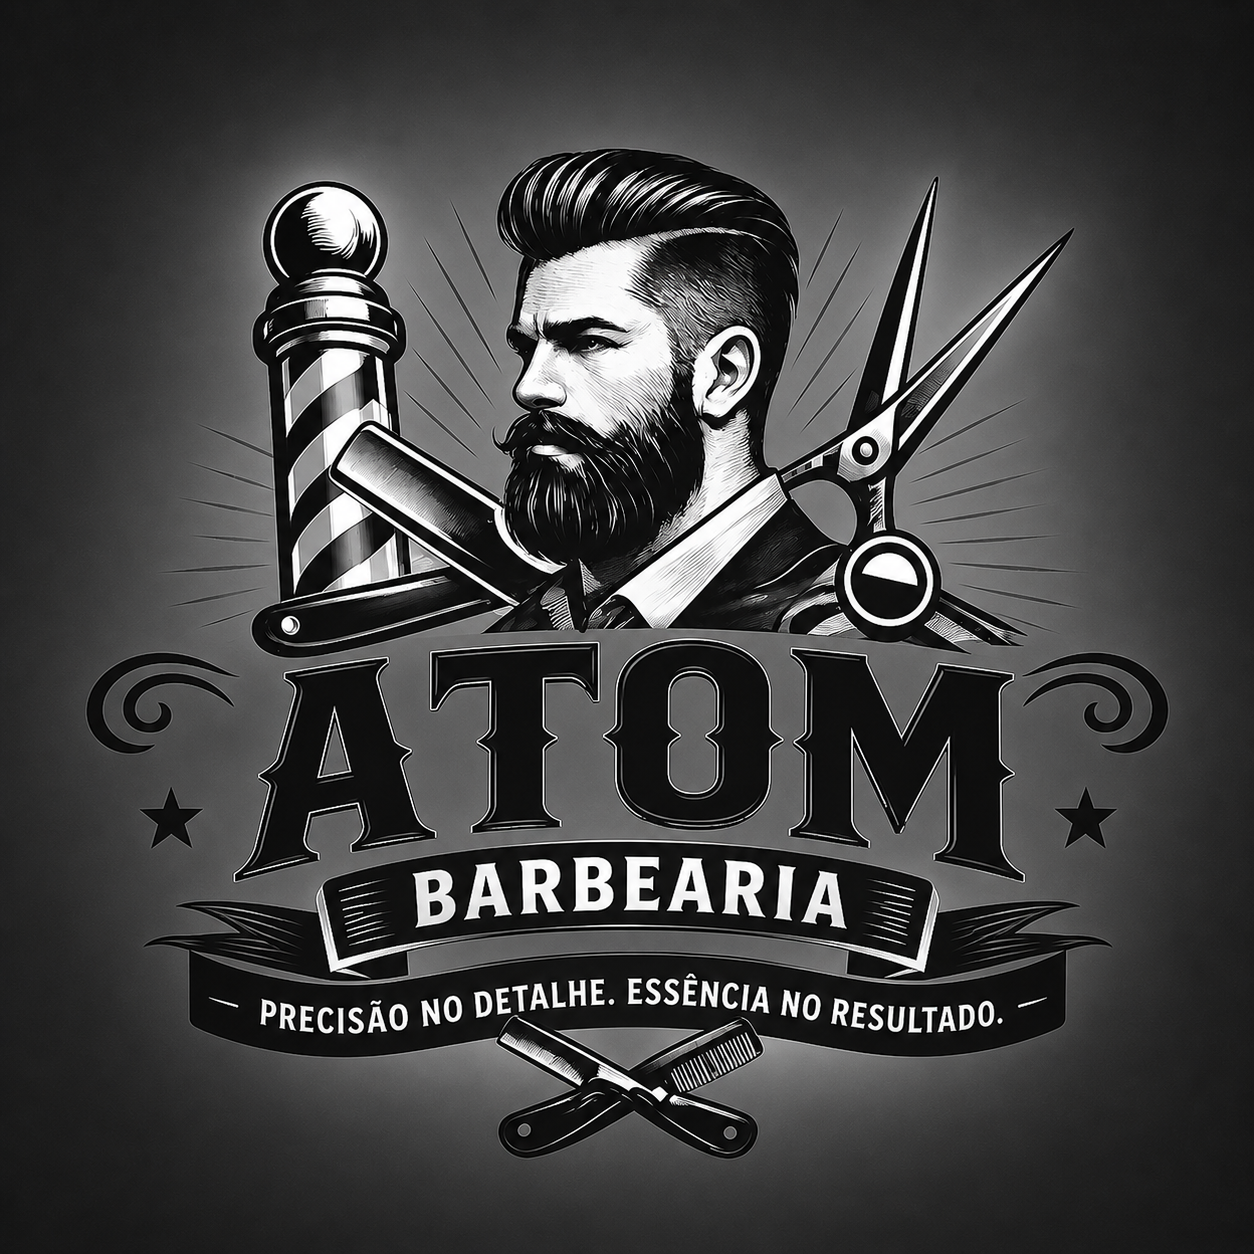
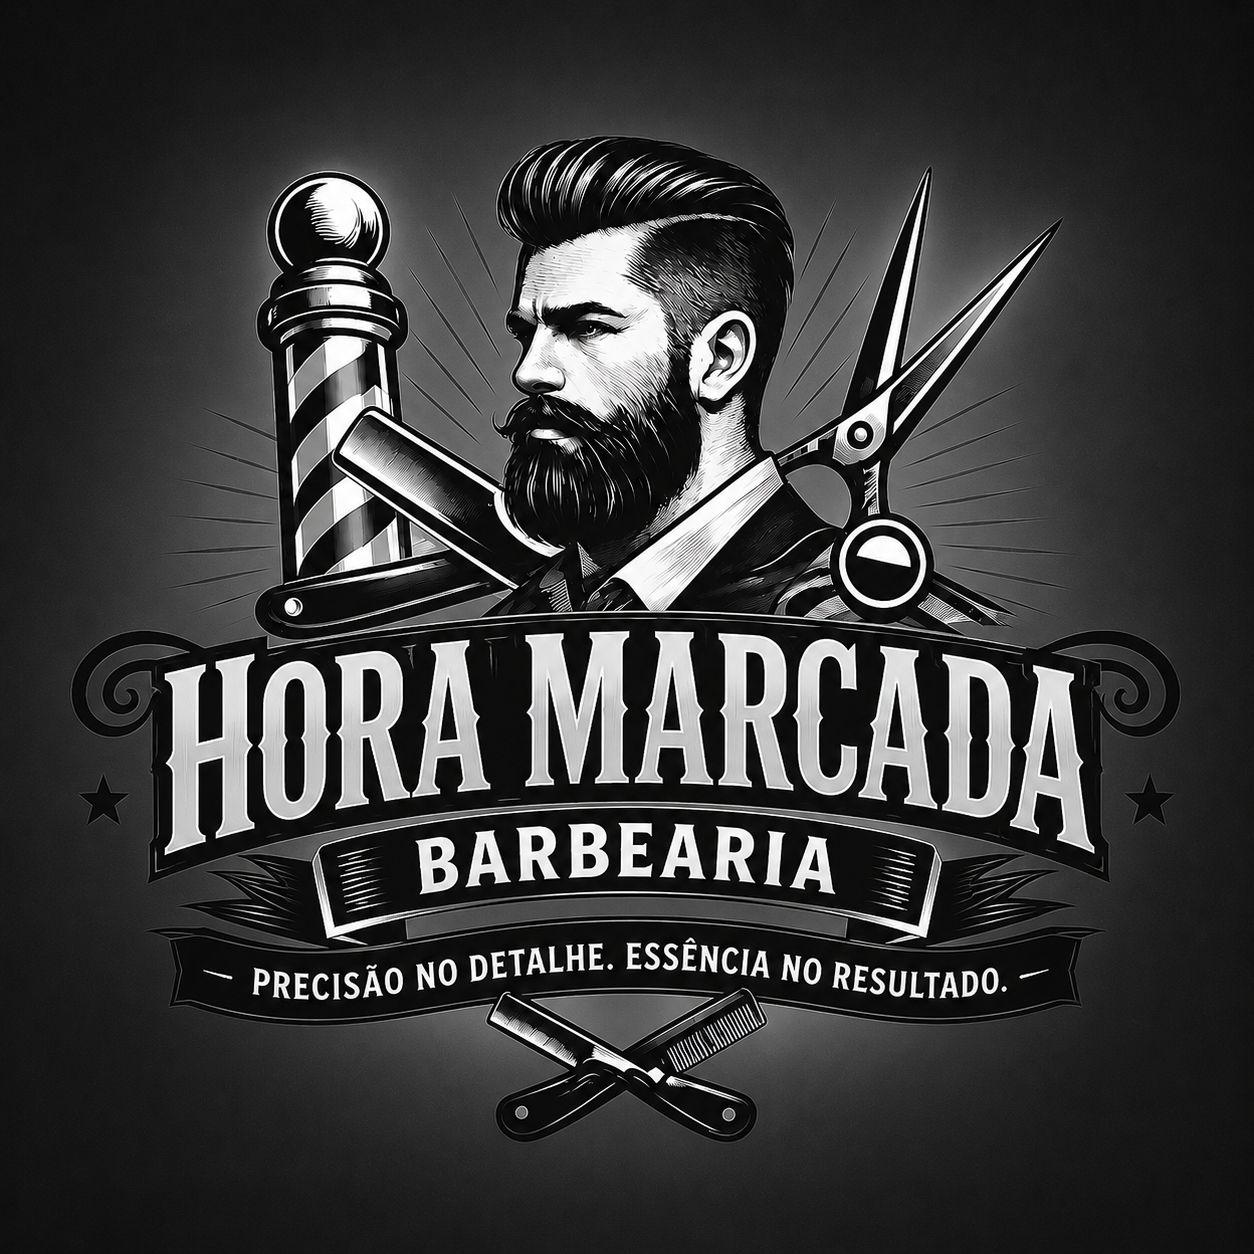
feat: update project branding and slogan in assets

diff --git a/README.md b/README.md
@@ -1,16 +1,37 @@
-# React + Vite
+# Atom Barbearia 💈
+> Precisão no detalhe. Essência no resultado.
 
-This template provides a minimal setup to get React working in Vite with HMR and some ESLint rules.
+![Slogan do Projeto](/src/assets/ATOM.png)
 
-Currently, two official plugins are available:
+## Sobre o Projeto
+O **Atom Barbearia** é uma solução de gestão de agendamentos focada em barbeiros autônomos. O projeto nasceu da necessidade de resolver a sobrecarga administrativa de profissionais como o **Vicente Cavalcante** (nossa Persona), que perdem tempo produtivo organizando horários manualmente via WhatsApp.
 
-- [@vitejs/plugin-react](https://github.com/vitejs/vite-plugin-react/blob/main/packages/plugin-react) uses [Oxc](https://oxc.rs)
-- [@vitejs/plugin-react-swc](https://github.com/vitejs/vite-plugin-react/blob/main/packages/plugin-react-swc) uses [SWC](https://swc.rs/)
+Este projeto faz parte do desafio **Labs Talents 2026**.
 
-## React Compiler
+## Tecnologias e Ferramentas
+- **Automação:** n8n + AI Agents (LLM)
+- **Banco de Dados:** PostGree / Modelagem ER
+- **Design:** Figma (UX/UI Lean Inception)
+- **Gestão:** Trello (Metodologia Ágil)
 
-The React Compiler is not enabled on this template because of its impact on dev & build performances. To add it, see [this documentation](https://react.dev/learn/react-compiler/installation).
+## Solução (MVP)
+Nosso foco é um "MVP Enxuto" que resolve o problema central:
+- **Visualização da Agenda:** Tela única para controle diário.
+- **Agendamento Inteligente:** Fluxo automatizado para redução de conflitos de horário.
+- **Onboarding do Barbeiro:** Facilidade na configuração inicial da disponibilidade.
 
-## Expanding the ESLint configuration
+## Segurança & Governança (Blue Team Mindset)
+- **LGPD:** Aplicação de princípios de minimização de dados.
+- **Segurança de APIs:** Implementação de boas práticas de autenticação e consumo de APIs REST.
+- **Integridade:** Normalização de banco de dados (1FN-3FN) para evitar redundância e erros de agendamento.
 
-If you are developing a production application, we recommend using TypeScript with type-aware lint rules enabled. Check out the [TS template](https://github.com/vitejs/vite/tree/main/packages/create-vite/template-react-ts) for information on how to integrate TypeScript and [`typescript-eslint`](https://typescript-eslint.io) in your project.
+## Squad Atom - Responsabilidades Técnicas
+
+- **Tulani Souza:** Front-end Developer & AI Automation Specialist (n8n/Agentes).
+- **Luiz Davi:** Front-end Developer & UX Researcher.
+- **Josimar Perseu:** Back-end Developer & Database Administrator (DBA).
+- **Guilherme Silva:** Back-end Developer & Systems Architect.
+- **Gabriel Marques:** Scrum Master & Project Management.
+
+---
+Projetado com foco em agilidade e precisão técnica. 2026.